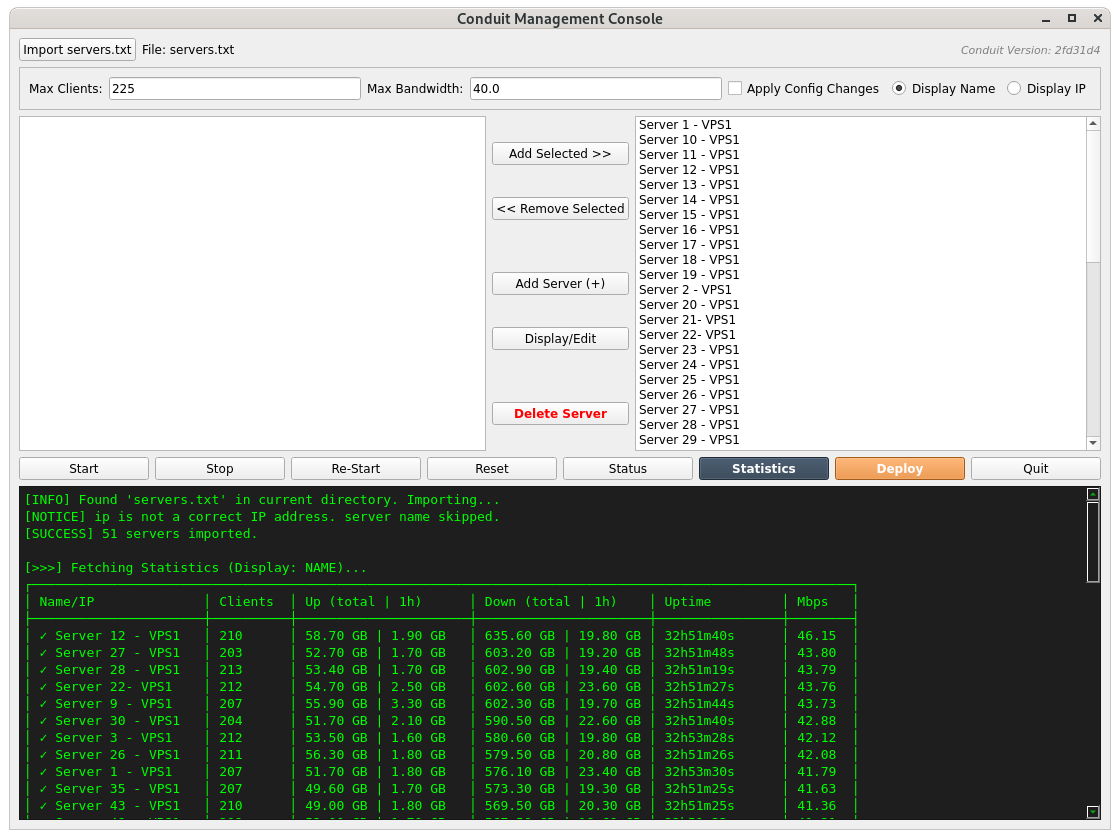
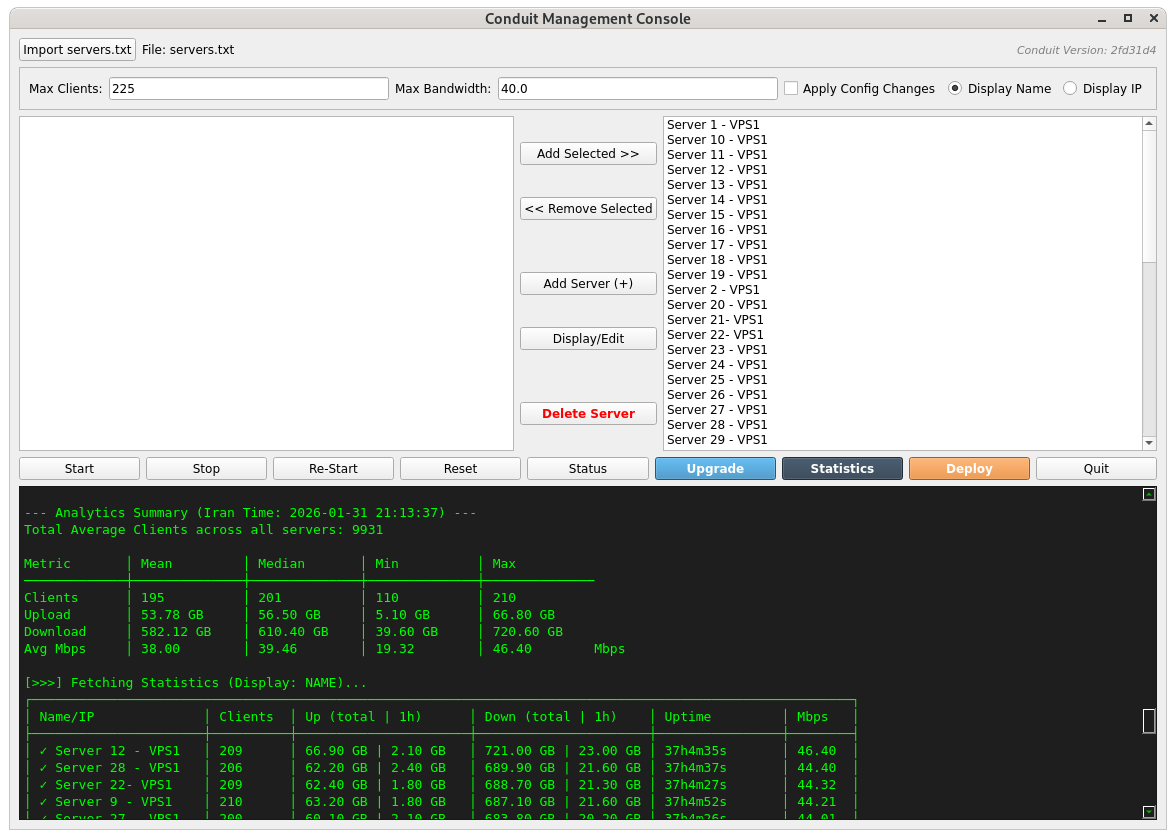
Updated interactive PyQt Gui for managing conduit services remotely

diff --git a/ConduitQt.py b/ConduitQt.py
@@ -372,10 +372,11 @@ class DeployWorker(QThread):
     log_signal = pyqtSignal(str)
     remove_password_signal = pyqtSignal(str)
 
-    def __init__(self, targets, params):
+    def __init__(self, action, targets, params):
         super().__init__()
         self.targets = targets
         self.params = params # password, max_clients, bandwidth, user
+        self.action = action
 
     def run(self):
         # Read the public key once
@@ -389,11 +390,20 @@ class DeployWorker(QThread):
         with open(pub_key_path, "r") as f:
             pub_key_content = f.read().strip()
 
-        with ThreadPoolExecutor(max_workers=5) as executor:
-            futures = [executor.submit(self.deploy_task, s, pub_key_content) for s in self.targets]
-            for f in as_completed(futures):
-                self.log_signal.emit(f.result())
+        if self.action == "deploy":
+            with ThreadPoolExecutor(max_workers=5) as executor:
+                futures = [executor.submit(self.deploy_task, s, pub_key_content) for s in self.targets]
+                for f in as_completed(futures):
+                    self.log_signal.emit(f.result())
 
+        elif self.action == "upgrade":
+            with ThreadPoolExecutor(max_workers=5) as executor:
+                futures = [executor.submit(self.upgrade_task, s) for s in self.targets]
+                for f in as_completed(futures):
+                    self.log_signal.emit(f.result())
+        else:
+            self.log_signal.emit(f"[WARNING] No action is taken: {s['ip']}")
+            return
 
     def deploy_task(self, s, pub_key):
         try:
@@ -492,6 +502,71 @@ WantedBy=multi-user.target
         except Exception as e:
             return f"[ERROR] {s['ip']} failed: {str(e)}"
 
+    def upgrade_task(self, s):
+        try:
+
+            home = os.path.expanduser("~")
+            key_path = os.path.join(home, ".ssh", "id_conduit")
+        
+            conn_params = {
+                "timeout": 10,
+                "banner_timeout": 20
+            }
+
+            try:
+                # Automatically extract 'version' from the URL
+                version_tag = CONDUIT_URL.split('/')[-2]
+            except (NameError, IndexError):
+                version_tag = "Unknown"
+
+            conn_params["key_filename"] = [key_path]
+            conn_params["look_for_keys"] = False
+            conn_params["allow_agent"] = False
+
+            with Connection(host=s['ip'], 
+                            user=self.params['user'],
+                            port=int(s['port']), 
+                            connect_kwargs=conn_params,
+                            inline_ssh_env=True
+            ) as conn:
+                
+                # Check if we are actually root or have access
+                # This "id -u" check returns 0 for root
+                res = conn.run("id -u", hide=True, warn=True)
+                if not res.ok:
+                    return f"[SKIP] {s['ip']}: Could not connect or not root."
+
+                # --- NEW: VERSION CHECK LOGIC ---
+                self.log_signal.emit(f"[{s['ip']}] Checking current version...")
+                v_check = conn.run("/opt/conduit/conduit --version", hide=True, warn=True)
+                
+                if v_check.ok:
+                    # Extract the hash from "conduit version e421eff"
+                    current_version = v_check.stdout.strip().split()[-1]
+                    
+                    if current_version == version_tag:
+                        return f"[SKIP] {s['ip']} is already running the latest version ({version_tag})."
+                # --------------------------------
+
+
+                # 2. Cleanup & Stop (Only runs if version is different or binary missing)
+                self.log_signal.emit(f"[{s['ip']}] Upgrading {current_version} -> {version_tag}...")
+
+                conn.run("systemctl stop conduit", warn=True, hide=True)
+                time.sleep(2)
+                conn.run("rm -f /opt/conduit/conduit", warn=True, hide=True)
+
+                # 3. Download Binary
+                conn.run(f"curl -L -o /opt/conduit/conduit {CONDUIT_URL}", hide=True)                
+                conn.run("chmod +x /opt/conduit/conduit")
+
+                # 5. Start
+                conn.run("systemctl start conduit", hide=True)                
+
+                return f"[OK] {s['ip']} successfully upgraded to conduit version {version_tag}."
+        except Exception as e:
+            return f"[ERROR] {s['ip']} failed: {str(e)}"
+
 # --- 3. Main GUI Window ---
 class ConduitGUI(QMainWindow):
     def __init__(self):
@@ -571,9 +646,15 @@ class ConduitGUI(QMainWindow):
         self.btn_stats.setStyleSheet("background-color: #2c3e50; color: white; font-weight: bold;")
 
         self.btn_deploy = QPushButton("Deploy")
-        self.btn_deploy.setStyleSheet("background-color: #e67e22; color: white; font-weight: bold;")
+        self.btn_deploy.setStyleSheet("background-color: #e67e22; color: white; font-weight: bold;")            
 
-        for b in [self.btn_start, self.btn_stop, self.btn_re, self.btn_reset, self.btn_stat, self.btn_stats, self.btn_deploy, self.btn_quit]:
+        self.btn_upgrade = QPushButton("Upgrade")
+#        self.btn_upgrade.setStyleSheet("background-color: #27ae60; color: white; font-weight: bold;")
+#        self.btn_upgrade.setStyleSheet("background-color: #8e44ad; color: white; font-weight: bold;")
+        self.btn_upgrade.setStyleSheet("background-color: #2980b9; color: white; font-weight: bold;")
+        self.btn_upgrade.setToolTip("Upgrade the conduit to the version displayed in GUI.")      
+
+        for b in [self.btn_start, self.btn_stop, self.btn_re, self.btn_reset, self.btn_stat, self.btn_upgrade, self.btn_stats, self.btn_deploy, self.btn_quit]:
             ctrl_lay.addWidget(b)
         layout.addLayout(ctrl_lay)
 
@@ -625,6 +706,8 @@ class ConduitGUI(QMainWindow):
         self.btn_reset.clicked.connect(self.confirm_reset)
         self.btn_stats.clicked.connect(self.run_stats)
         self.btn_deploy.clicked.connect(self.run_deploy)
+        self.btn_upgrade.clicked.connect(self.run_upgrade)
+        
 
 
     def get_validated_inputs(self):
@@ -750,11 +833,68 @@ class ConduitGUI(QMainWindow):
         self.btn_deploy.setEnabled(False)
         self.btn_deploy.setText("Deploying...")
         
-        self.deploy_thread = DeployWorker(valid_targets, params)
+        self.deploy_thread = DeployWorker("deploy",valid_targets, params)
         self.deploy_thread.log_signal.connect(lambda m: self.console.appendPlainText(m))
         self.deploy_thread.remove_password_signal.connect(self.remove_password_from_file)
         self.deploy_thread.finished.connect(lambda: self.btn_deploy.setEnabled(True))
         self.deploy_thread.finished.connect(lambda: self.btn_deploy.setText("Deploy"))
+        
+        self.deploy_thread.start()
+
+    def run_upgrade(self):
+        # 1. Get targets
+        selected_targets = [self.find_data_by_item(self.sel.item(i)) for i in range(self.sel.count())]
+        if not selected_targets:
+            QMessageBox.warning(self, "Deployment", "No servers selected.")
+            return
+
+        validated = self.get_validated_inputs()
+        if not validated: return 
+
+        valid_targets = []
+
+        # THE WARNING GATE ---
+        target_names = ", ".join([s.get('name', s['ip']) for s in selected_targets])
+        
+        warning_msg = (
+            "⚠ CRITICAL: UPGARDE CONDUIT\n\n"
+            f"You are about to upgrade: {target_names}\n\n"
+            "This action will:\n"
+            "• Connect as ROOT\n"
+            "• UPGARDE the existing conduit applicatinon\n"
+            "Are you sure you want to proceed?"
+        )
+
+        # Show the dialog with 'No' as the default safe choice
+        reply = QMessageBox.warning(
+            self, 
+            "Confirm System Upgrade", 
+            warning_msg,
+            QMessageBox.Yes | QMessageBox.No, 
+            QMessageBox.No
+        )
+
+        if reply != QMessageBox.Yes:
+            self.console.appendPlainText("[CANCELLED] Upgrade aborted by user.")
+            return
+
+        # 4. Final Verification
+        if not selected_targets: return
+
+        params = {
+            "user": "root",
+            "clients": validated['clients'], 
+            "bw": validated['bw']            
+        }
+
+        # UI Feedback and Start Thread
+        self.btn_upgrade.setEnabled(False)
+        self.btn_upgrade.setText("Upgrading...")
+        
+        self.deploy_thread = DeployWorker("upgrade",selected_targets, params)
+        self.deploy_thread.log_signal.connect(lambda m: self.console.appendPlainText(m))
+        self.deploy_thread.finished.connect(lambda: self.btn_upgrade.setEnabled(True))
+        self.deploy_thread.finished.connect(lambda: self.btn_upgrade.setText("Upgrade"))
         
         self.deploy_thread.start()
 

diff --git a/README.md b/README.md
@@ -134,7 +134,8 @@ Customization: To change the interval, edit CHECK_INTERVAL_SECONDS (line 14) in 
 * **Add server:** Use Add Server(+) if you have not added any server yet. You can also use this later to add further servers.
 * **Delete server:** Use Delete Server if you no longer needed.
 * **Deploy:** Select one or a number of servers in the right list and cick Deploy. This will deploy your server(s)
-* **Status:** Clicking on this dosplay the current status of your server(s), whether it is active or dead.
+* **Upgrade:** This upgrade the conduit cli binary in remote server to the version displayed in GUI.
+* **Status:** Clicking on this dosplay the current status of your server(s), whether it is active or dead. It also shows the last 10 connections to the server.
 * **Statistics:** This shows the network analytic. Clients is the average of last one hour. To get the current live connections and conduit status click on Status Button.
 * **Stop:** If you like to stop Conduit service, use this. You hardly need this.
 * **Start:** If Conduit service is not active, use this to start it.
